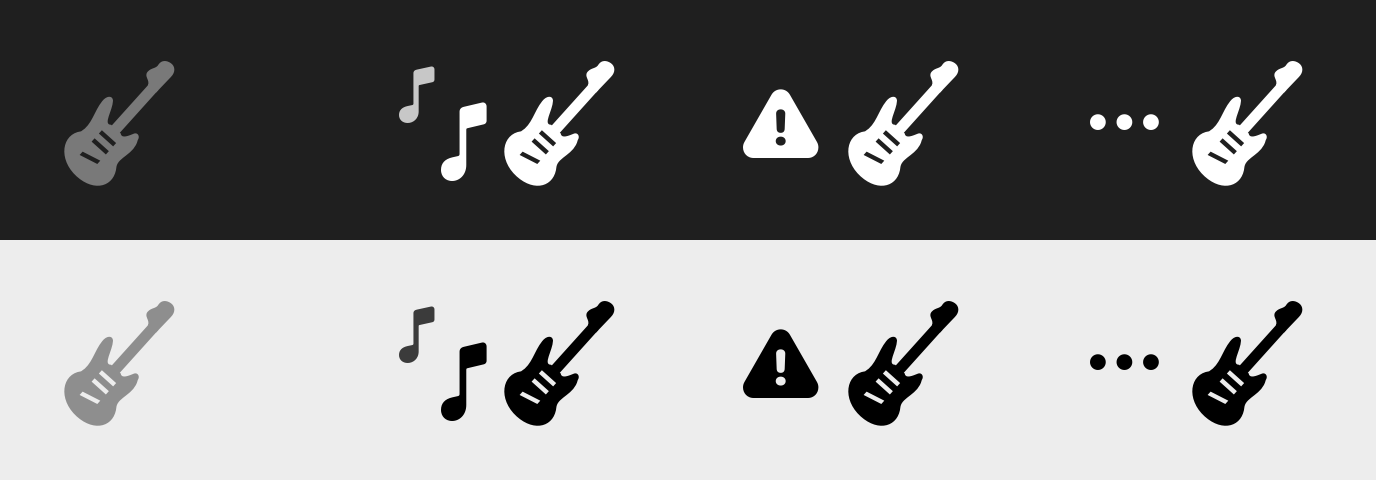
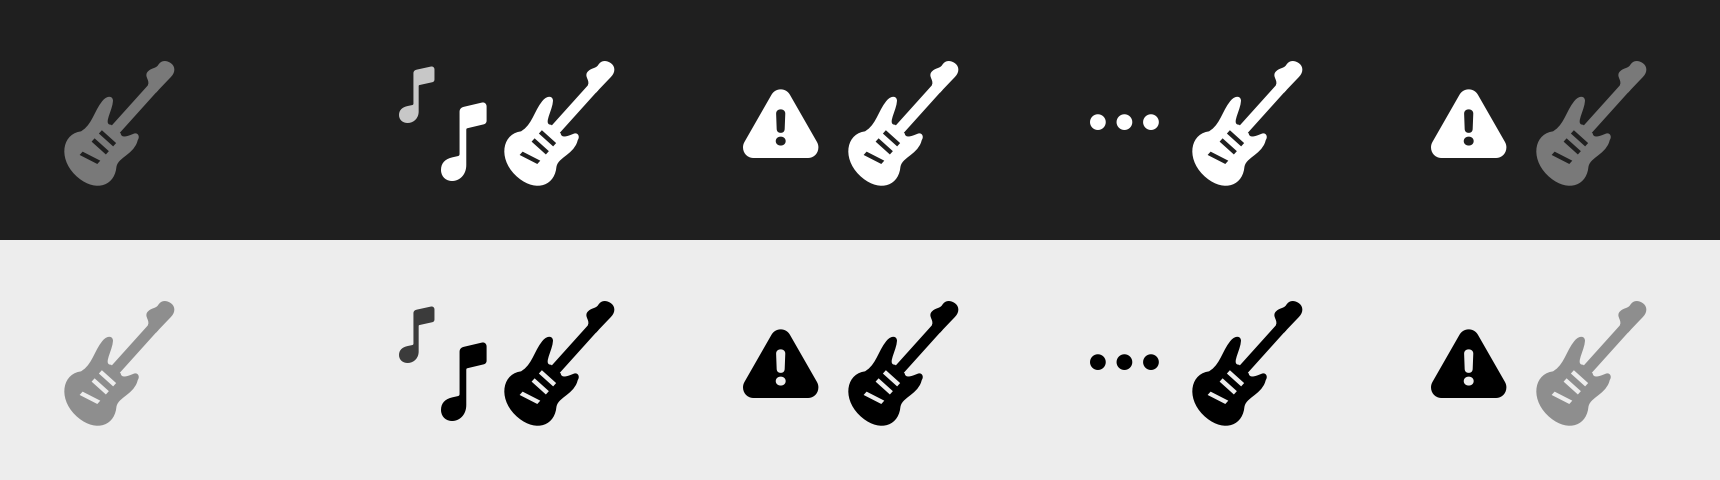
Report a take that went wrong without blocking the app
A failed or silent take showed a modal alert, and the app did not react
to clicks until it was dismissed. It now shows a warning mark on the icon
and the reason at the top of the menu, beside the notification.

diff --git a/Sources/JamTap/AppDelegate.swift b/Sources/JamTap/AppDelegate.swift
@@ -9,6 +9,8 @@ final class AppDelegate: NSObject, NSApplicationDelegate, NSMenuDelegate {
     private var toggleHotKey: HotKey?
     private let sourceMenu = NSMenu()
     private var isWaitingToQuit = false
+    /// What went wrong with the last take, until the user has seen it in the menu.
+    private var unseenProblem: String?
     private let toggleSignal = DispatchSource.makeSignalSource(signal: SIGUSR1, queue: .main)
 
     func applicationDidFinishLaunching(_ notification: Notification) {
@@ -45,8 +47,10 @@ final class AppDelegate: NSObject, NSApplicationDelegate, NSMenuDelegate {
 
     private func refreshStatusItem() {
         guard let button = statusItem.button else { return }
+        if recorder.isRecording { unseenProblem = nil }  // a new take replaces the news about the last one
         let kind = StatusIconKind.showing(isRecording: recorder.isRecording, isSilentTooLong: recorder.isSilentTooLong,
-                                          conversionsInProgress: recorder.conversionsInProgress)
+                                          conversionsInProgress: recorder.conversionsInProgress,
+                                          hasUnseenProblem: unseenProblem != nil)
         button.image = StatusIcon.image(kind)
         let digitsOfEqualWidth = NSFont.monospacedDigitSystemFont(ofSize: NSFont.menuBarFont(ofSize: 0).pointSize, weight: .regular)
         button.attributedTitle = NSAttributedString(string: recorder.elapsedSeconds.map { ElapsedTime.text(seconds: $0) + " " } ?? "",
@@ -56,6 +60,7 @@ final class AppDelegate: NSObject, NSApplicationDelegate, NSMenuDelegate {
         case .recording: "JamTap: recording, click to stop"
         case .recordingSilent: "JamTap: recording, but nothing has been heard for a while"
         case .converting: "JamTap: converting the last take to MP3"
+        case .problem: "JamTap: the last take went wrong, right-click to see why"
         }
         if isWaitingToQuit, !recorder.isBusy {
             NSApp.reply(toApplicationShouldTerminate: true)
@@ -67,30 +72,60 @@ final class AppDelegate: NSObject, NSApplicationDelegate, NSMenuDelegate {
         if event?.type == .rightMouseUp || event?.modifierFlags.contains(.control) == true {
             // Attach the menu only for this click, so that a plain left click keeps toggling.
             statusItem.menu = makeMenu()
-            statusItem.button?.performClick(nil)
+            statusItem.button?.performClick(nil)  // returns when the menu has closed
             statusItem.menu = nil
+            unseenProblem = nil  // the menu showed it
+            refreshStatusItem()
         } else {
             recorder.toggle()
         }
     }
 
+    /// Tells the user how a take ended. A take that went wrong is reported by a notification and, in
+    /// case notifications are off, by a warning mark on the icon with the reason in the menu.
+    /// No alert window: a modal alert would stop the app from reacting to clicks until it is dismissed.
     private func report(_ result: TakeResult) {
         switch result {
         case .saved(let url):
             notifier.show(title: "Jam saved", body: url.lastPathComponent, file: url)
+        case .savedSilent(let url):
+            let advice = "\(url.lastPathComponent) contains only silence. If sound was playing, macOS has not allowed "
+                + "JamTap to record it: allow JamTap under System Settings > Privacy & Security > "
+                + "Screen & System Audio Recording, then quit and reopen JamTap."
+            notifier.show(title: "Jam is silent", body: advice, file: url)
+            unseenProblem = advice
         case .keptUnconverted(let url, let reason):
             notifier.show(title: "Jam saved as WAV", body: "\(url.lastPathComponent)\n\(reason)", file: url)
+            unseenProblem = "\(url.lastPathComponent): \(reason)"
         case .failed(let reason):
             notifier.show(title: "JamTap could not record", body: reason, file: nil)
-            // A failure must not be missed if notifications are off.
-            showAlert(title: "JamTap could not record", text: reason)
+            unseenProblem = "Could not record. \(reason)"
         }
+        refreshStatusItem()
     }
 
     // MARK: Menu
 
     private func makeMenu() -> NSMenu {
         let menu = NSMenu()
+        if let unseenProblem {
+            // Menu items do not wrap, so the reason is laid out in lines of about 60 characters.
+            var line = ""
+            var lines: [String] = []
+            for word in unseenProblem.split(whereSeparator: \.isWhitespace) {
+                if !line.isEmpty, line.count + word.count >= 60 {
+                    lines.append(line)
+                    line = ""
+                }
+                line += (line.isEmpty ? "" : " ") + word
+            }
+            for (index, text) in (lines + [line]).enumerated() {
+                let reason = NSMenuItem(title: (index == 0 ? "⚠ " : "     ") + text, action: nil, keyEquivalent: "")
+                reason.isEnabled = false
+                menu.addItem(reason)
+            }
+            menu.addItem(.separator())
+        }
         let toggle = item(recorder.isRecording ? "Stop Recording" : "Start Recording", #selector(toggleRecording))
         if toggleHotKey != nil {  // shown only if the system-wide shortcut could be registered
             toggle.keyEquivalent = HotKey.toggleRecordingKeyEquivalent

diff --git a/Sources/JamTap/Recorder.swift b/Sources/JamTap/Recorder.swift
@@ -5,6 +5,9 @@ import JamTapCore
 enum TakeResult {
     /// The take is saved; `url` is the MP3, or the directory of a take with one track per app.
     case saved(URL)
+    /// The take is saved but holds only digital silence, which is what macOS delivers when the app
+    /// lacks the permission to record system audio.
+    case savedSilent(URL)
     /// The recording exists but something went wrong afterwards; `url` is what was kept.
     case keptUnconverted(URL, reason: String)
     case failed(reason: String)
@@ -153,43 +156,43 @@ final class Recorder {
         }
         everySecond?.invalidate()
         state = .idle
+        let wavs: [URL], result: URL
         switch capture.output {
         case .singleWav(let wav):
-            guard fileHasContent(wav) else {
-                onTakeFinished(.failed(reason: "No recording was made.\n" + Tools.lastOutput(logName: "catap")))
-                break
-            }
-            convert([wav], savedAs: capture.take.mp3)
+            wavs = [wav].filter(fileHasContent)
+            result = capture.take.mp3
         case .trackDirectory(let directory):
-            let wavs = ((try? FileManager.default.contentsOfDirectory(at: directory, includingPropertiesForKeys: nil)) ?? [])
+            wavs = ((try? FileManager.default.contentsOfDirectory(at: directory, includingPropertiesForKeys: nil)) ?? [])
                 .filter { $0.pathExtension.lowercased() == "wav" && fileHasContent($0) }
-            guard !wavs.isEmpty else {
-                onTakeFinished(.failed(reason: "No recording was made.\n" + Tools.lastOutput(logName: "catap")))
-                break
+            result = directory
+        }
+        guard !wavs.isEmpty else {
+            onTakeFinished(.failed(reason: "No recording was made.\n" + Tools.lastOutput(logName: "catap")))
+            onChange()
+            return
+        }
+        // Files of pure digital silence are dropped, unless that would leave nothing: an app with
+        // several audio processes gives one track per process, and most of them stay silent.
+        // Reading whole files takes a while for a long take, so it happens off the main thread.
+        conversionsInProgress += 1
+        onChange()
+        DispatchQueue.global(qos: .userInitiated).async {
+            let wavsWithSound = wavs.filter { WavLevel.peak(ofFile: $0) != 0 }
+            if !wavsWithSound.isEmpty {
+                for silentWav in wavs where !wavsWithSound.contains(silentWav) {
+                    try? FileManager.default.removeItem(at: silentWav)
+                }
             }
-            // An app with several audio processes gives one track per process, and most stay silent.
-            // Tracks of pure digital silence are dropped, unless that would leave nothing.
-            // Reading whole tracks takes a while for a long take, so it happens off the main thread.
-            conversionsInProgress += 1
-            DispatchQueue.global(qos: .userInitiated).async {
-                let tracksWithSound = wavs.filter { WavLevel.peak(ofFile: $0) != 0 }
-                if !tracksWithSound.isEmpty {
-                    for silentTrack in wavs where !tracksWithSound.contains(silentTrack) {
-                        try? FileManager.default.removeItem(at: silentTrack)
-                    }
-                }
-                DispatchQueue.main.async {
-                    self.convert(tracksWithSound.isEmpty ? wavs : tracksWithSound, savedAs: directory)
-                    self.conversionsInProgress -= 1
-                    self.onChange()
-                }
+            DispatchQueue.main.async {
+                self.convert(wavsWithSound.isEmpty ? wavs : wavsWithSound, savedAs: result, takeIsSilent: wavsWithSound.isEmpty)
+                self.conversionsInProgress -= 1
+                self.onChange()
             }
         }
-        onChange()
     }
 
     /// Converts each WAV to an MP3 beside it and deletes the WAV; reports once when all are done.
-    private func convert(_ wavs: [URL], savedAs result: URL) {
+    private func convert(_ wavs: [URL], savedAs result: URL, takeIsSilent: Bool) {
         guard let ffmpeg = Tools.ffmpeg else {
             onTakeFinished(.keptUnconverted(wavs.count == 1 ? wavs[0] : result,
                                             reason: "ffmpeg is not installed, so the take stays a WAV."))
@@ -211,7 +214,7 @@ final class Recorder {
                 guard remaining == 0 else { return }
                 self.conversionsInProgress -= 1
                 if failures.isEmpty {
-                    self.onTakeFinished(.saved(result))
+                    self.onTakeFinished(takeIsSilent ? .savedSilent(result) : .saved(result))
                 } else {
                     self.onTakeFinished(.keptUnconverted(failures.count == 1 ? failures[0] : result,
                                                          reason: "MP3 conversion failed, so the WAV is kept.\n"

diff --git a/Tests/JamTapCoreTests/StatusDisplayTests.swift b/Tests/JamTapCoreTests/StatusDisplayTests.swift
@@ -14,13 +14,19 @@ import Testing
 }
 
 @Test func iconShowsRecordingBeforeAnythingElse() {
-    #expect(StatusIconKind.showing(isRecording: true, isSilentTooLong: false, conversionsInProgress: 2) == .recording)
-    #expect(StatusIconKind.showing(isRecording: true, isSilentTooLong: true, conversionsInProgress: 0) == .recordingSilent)
+    #expect(StatusIconKind.showing(isRecording: true, isSilentTooLong: false, conversionsInProgress: 2, hasUnseenProblem: true) == .recording)
+    #expect(StatusIconKind.showing(isRecording: true, isSilentTooLong: true, conversionsInProgress: 0, hasUnseenProblem: false) == .recordingSilent)
 }
 
 @Test func iconShowsConvertingOnlyWhenNotRecording() {
-    #expect(StatusIconKind.showing(isRecording: false, isSilentTooLong: false, conversionsInProgress: 1) == .converting)
-    #expect(StatusIconKind.showing(isRecording: false, isSilentTooLong: false, conversionsInProgress: 0) == .idle)
+    #expect(StatusIconKind.showing(isRecording: false, isSilentTooLong: false, conversionsInProgress: 1, hasUnseenProblem: false) == .converting)
+    #expect(StatusIconKind.showing(isRecording: false, isSilentTooLong: false, conversionsInProgress: 0, hasUnseenProblem: false) == .idle)
     // A stale silence flag from the last recording does not matter once recording has stopped.
-    #expect(StatusIconKind.showing(isRecording: false, isSilentTooLong: true, conversionsInProgress: 0) == .idle)
+    #expect(StatusIconKind.showing(isRecording: false, isSilentTooLong: true, conversionsInProgress: 0, hasUnseenProblem: false) == .idle)
+}
+
+@Test func iconShowsAProblemOfTheLastTakeUntilItIsSeen() {
+    #expect(StatusIconKind.showing(isRecording: false, isSilentTooLong: false, conversionsInProgress: 0, hasUnseenProblem: true) == .problem)
+    // A problem matters more than a conversion that is still running.
+    #expect(StatusIconKind.showing(isRecording: false, isSilentTooLong: false, conversionsInProgress: 1, hasUnseenProblem: true) == .problem)
 }

diff --git a/Sources/JamTap/StatusIcon.swift b/Sources/JamTap/StatusIcon.swift
@@ -13,7 +13,7 @@ enum StatusIcon {
         let badgeWidth: CGFloat = kind == .idle ? 0 : 12
         let size = NSSize(width: badgeWidth + guitarWidth, height: height)
         let image = NSImage(size: size, flipped: false) { _ in
-            let guitarAlpha: CGFloat = kind == .idle ? 0.4 : 1.0
+            let guitarAlpha: CGFloat = kind == .idle || kind == .problem ? 0.4 : 1.0  // translucent when not recording
             drawGuitar(in: NSRect(x: badgeWidth, y: 0, width: guitarWidth, height: height),
                        colour: NSColor.black.withAlphaComponent(guitarAlpha))
             let badge = NSRect(x: 0, y: 0, width: badgeWidth, height: height)
@@ -26,7 +26,7 @@ enum StatusIcon {
                      centredIn: NSRect(x: badge.maxX - 7, y: 1, width: 8, height: 11), alpha: 1)
                 draw(symbol: "music.note", pointSize: 7, weight: .bold,
                      centredIn: NSRect(x: badge.minX, y: 8, width: 7, height: 9), alpha: 0.75)
-            case .recordingSilent:
+            case .recordingSilent, .problem:
                 draw(symbol: "exclamationmark.triangle.fill", pointSize: 9, weight: .bold,
                      centredIn: badge, alpha: 1)
             case .converting:

diff --git a/Sources/JamTapCore/StatusDisplay.swift b/Sources/JamTapCore/StatusDisplay.swift
@@ -8,9 +8,15 @@ public enum StatusIconKind: String, CaseIterable, Sendable {
     case recordingSilent
     /// Not recording, and an earlier take is still being converted to MP3.
     case converting
+    /// Not recording, and the last take failed or is silent: a translucent guitar with a warning mark.
+    /// The menu says what went wrong.
+    case problem
 
-    public static func showing(isRecording: Bool, isSilentTooLong: Bool, conversionsInProgress: Int) -> StatusIconKind {
+    /// - Parameter hasUnseenProblem: the last take went wrong and the user has not opened the menu since.
+    public static func showing(isRecording: Bool, isSilentTooLong: Bool, conversionsInProgress: Int,
+                               hasUnseenProblem: Bool) -> StatusIconKind {
         if isRecording { return isSilentTooLong ? .recordingSilent : .recording }
+        if hasUnseenProblem { return .problem }
         return conversionsInProgress > 0 ? .converting : .idle
     }
 }

diff --git a/README.md b/README.md
@@ -12,7 +12,8 @@ with `ffmpeg`. It does nothing those two tools cannot do from a terminal; it rem
 
 ![Icon states](docs/icon-sheet.png)
 
-Left to right: idle, recording, recording but silent for 10 s, converting the last take.
+Left to right: idle, recording, recording but silent for 10 s, converting the last take,
+and a problem with the last take (the menu then says what went wrong).
 While recording, the elapsed time shows to the left of the icon.
 
 The silence warning means that `catap` has captured nothing above −60 dBFS for 10 seconds,
